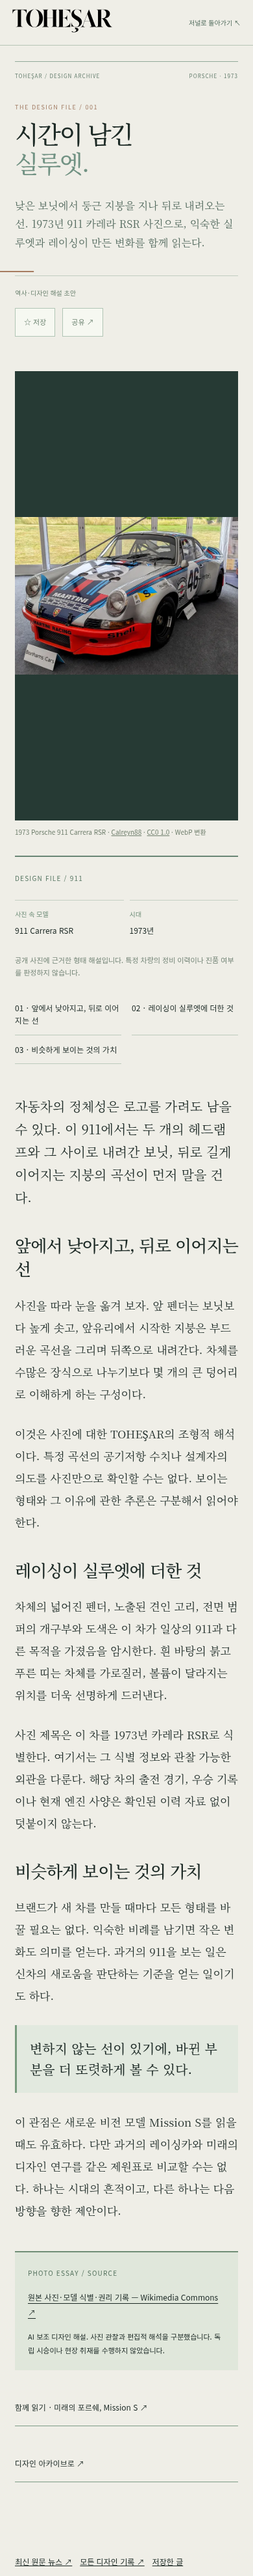
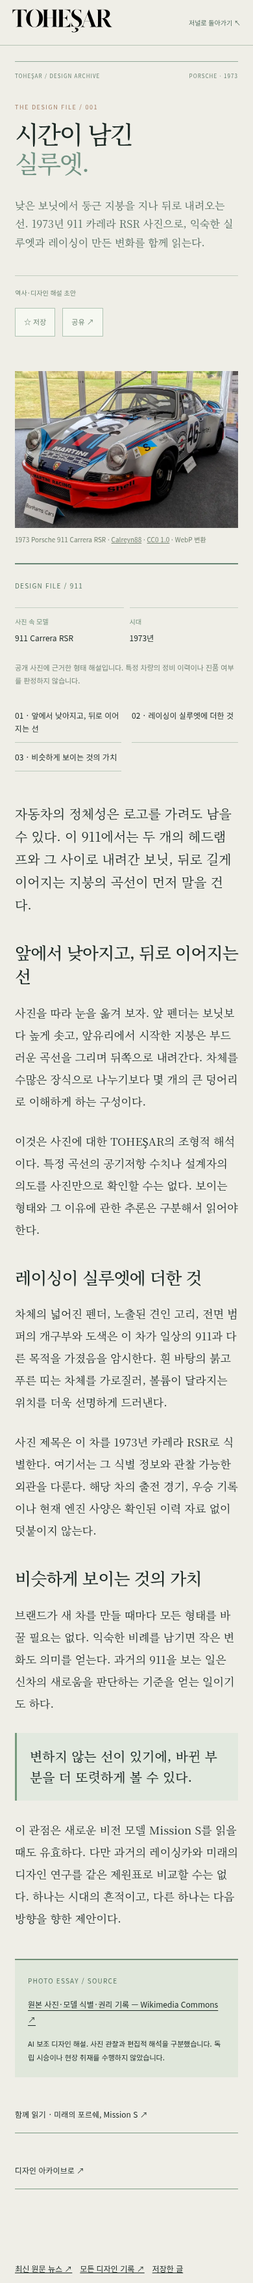
Preserve intrinsic article photo proportions on mobile

diff --git a/edition/style.css b/edition/style.css
@@ -43,3 +43,5 @@ body[data-page="news"] .site-header,body[data-page="archive"] .site-header{posit
 .current-brief{display:grid;grid-template-columns:1fr 1fr;gap:36px;margin:0 0 32px;padding:0 0 30px;border-bottom:1px solid #b8c5b7}.current-brief span{font:10px var(--sans);color:#526e5a}.current-brief h3{font:500 clamp(24px,2.5vw,34px)/1.5 var(--serif);margin:16px 0}.current-brief p{font:13px/1.9 var(--sans);color:#4d6555;margin:0 0 12px}.current-brief small{display:block;font-size:10px;line-height:1.8;color:#526e5a}.current-brief .source-link{display:block;min-height:44px}@media(max-width:600px){.current-brief{grid-template-columns:1fr;gap:4px;margin-bottom:27px;padding-bottom:26px}.current-brief h3{font-size:25px;margin-top:12px}}
 /* Contrast verified against paper backgrounds. */
 .section-top,.tag-line,.section-headline p,.news-footer,.news-side>span,.subjects-grid a span,.subjects-grid small{color:#4e6857}.subjects-section h2 em{color:#647e6b}
+/* Intrinsic article image ratios must override HTML dimension hints. */
+.f40-article-image img{height:auto}

diff --git a/scripts/test_browser.py b/scripts/test_browser.py
@@ -14,6 +14,8 @@ with sync_playwright() as p:
    checks=page.evaluate('''() => ({overflow:document.documentElement.scrollWidth>innerWidth,images:[...document.images].filter(i=>!i.complete||!i.naturalWidth).map(i=>i.src),font:document.fonts.status})''')
    assert not checks['overflow'],(w,path,checks)
    assert not checks['images'],(w,path,checks)
+   if w<768 and page.locator('.f40-article-image img').count():
+    assert page.locator('.f40-article-image img').evaluate('(i)=>Math.abs(i.getBoundingClientRect().height/i.getBoundingClientRect().width-i.naturalHeight/i.naturalWidth)<0.02'),(w,path,'distorted image box')
    if w in [390,1440] and path in ['','news/','story/911/']:
     page.screenshot(path=out+'/'+('home' if not path else path.replace('/','-'))+str(w)+'.png',full_page=True)
    results.append({'width':w,'page':path or 'home',**checks})

diff --git a/docs/EDITION_003_REPORT.md b/docs/EDITION_003_REPORT.md
@@ -79,3 +79,5 @@ The inherited revision is preserved at `backup/edition-003-350704d` (350704d). R
 - Production URL: **https://tohesar.com/edition/**. Real HTTPS fetches of home/news/archive/911 and both mobile photos passed. Root HTML matched the preserved `index.html` byte-for-byte. Production Chromium at 390px loaded actual fonts/photos, found no broken images or horizontal overflow, and rendered 45 news records; screenshot `live-home390.png` visually inspected.
 - Further keyboard verification found native search inputs consume the first Escape to clear text. The dialog now handles Escape explicitly and returns focus; menus also return focus when hiding a focused link. Clipboard share was verified by actual clipboard readback, reduced-motion by computed animation state, and unavailable localStorage by injected denial (no false saved status).
 - Next priorities: administrator completes Pages Source setting, physical iPhone Safari/WebKit review, LCP below 2.5s under mobile throttling, human editorial review of Mission S draft and a sustainable cadence of verified Korean briefings. No CMS, accounts, automatic Korean reporting or device sync is claimed.
+
+- Final enlarged article screenshot inspection caught an intrinsic-image sizing bug: HTML height hints left tall letterboxing on mobile despite successful image loading. Explicit `height:auto` fixes it; the browser suite now asserts the actual mobile image-box aspect ratio against the native photograph. This illustrates why visual review is recorded independently of loading/overflow checks.
